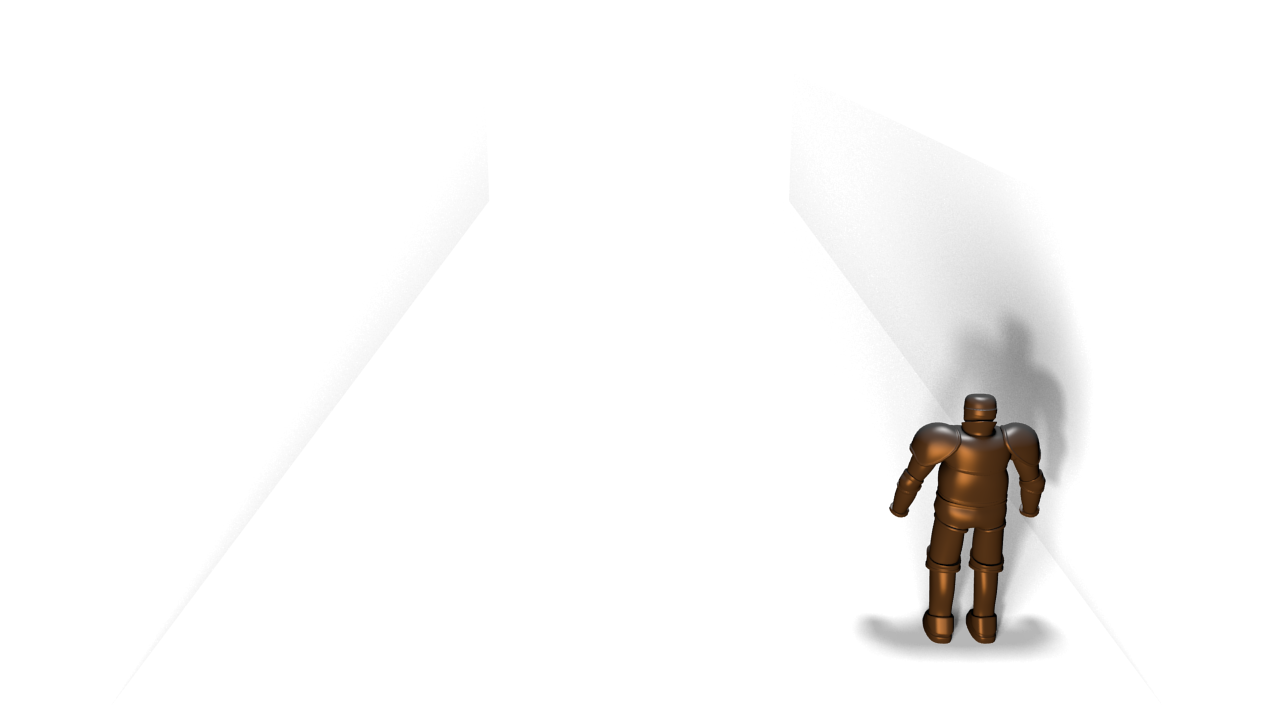
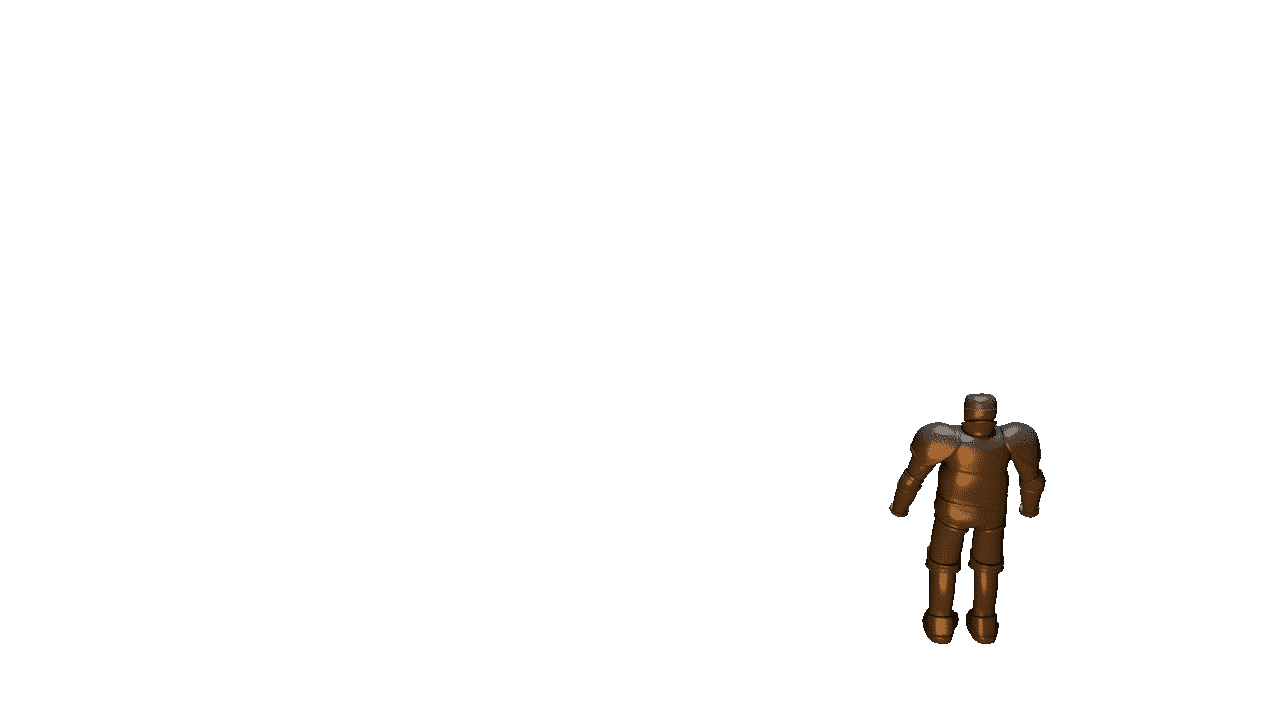
Running character works

Changed region(s): [[0.6562, 0.3056, 0.8438, 0.9167]]

diff --git a/src/character.cpp b/src/character.cpp
@@ -4,17 +4,42 @@
 #define MIN_POSITION 0
 #define MAX_POSITION 3
 
+#define RUNNING_FRAMES 14
+
 Character::Character(std::string name) : name_(name), position_(0)
 {
   for(int i = 0; i <= MAX_POSITION; ++i) {
-    std::string path("assets/PlayerFrames/");
-    path.append(std::to_string(i));
-    path.append("/Idle/Idle1.png");
+    std::string idle_path("assets/PlayerFrames/");
+    idle_path.append(std::to_string(i));
+    idle_path.append("/Idle/Idle1.png");
 
     sf::Texture t;
-    if(!t.loadFromFile(path))
+    if(!t.loadFromFile(idle_path))
       std::cout << "Failed to load idle image " << i << std::endl;
     idleImages_.push_back(t);
+
+    std::vector<sf::Texture> running;
+    for(int j = 2; j <= RUNNING_FRAMES; ++j) {
+      std::string running_path("assets/PlayerFrames/");
+      running_path.append(std::to_string(i));
+      running_path.append("/Run/Run00");
+
+      if(j < 10) {
+        running_path.append("0");
+      }
+      running_path.append(std::to_string(j));
+      running_path.append(".png");
+
+
+      sf::Texture t;
+      if(!t.loadFromFile(running_path))
+        std::cout << "Failed to load Running frame " << j << std::endl;
+
+      running.push_back(t);
+    }
+
+    runningImages_.push_back(running);
+    
   }
 }
 
@@ -33,6 +58,11 @@ void Character::moveRight() {
 }
 
 void Character::draw(sf::RenderWindow* w) {
-  sf::Sprite idle(idleImages_[position_]);
-  w->draw(idle);
+  //sf::Sprite idle(idleImages_[position_]);
+  //w->draw(idle);
+
+  sf::Sprite running(runningImages_[position_][runningFrame_]);
+  w->draw(running);
+
+  runningFrame_ = (runningFrame_+1) % (RUNNING_FRAMES - 2);
 }

diff --git a/src/character.h b/src/character.h
@@ -26,7 +26,10 @@ class Character {
 
   private:
     std::vector<sf::Texture> idleImages_;
+    std::vector<std::vector<sf::Texture> > runningImages_;
     std::string name_;
+
+    int runningFrame_;
 
     int position_;
     int health_;

diff --git a/src/monster.cpp b/src/monster.cpp
@@ -1,0 +1,3 @@
+#include "eye_monster.h"
+
+
